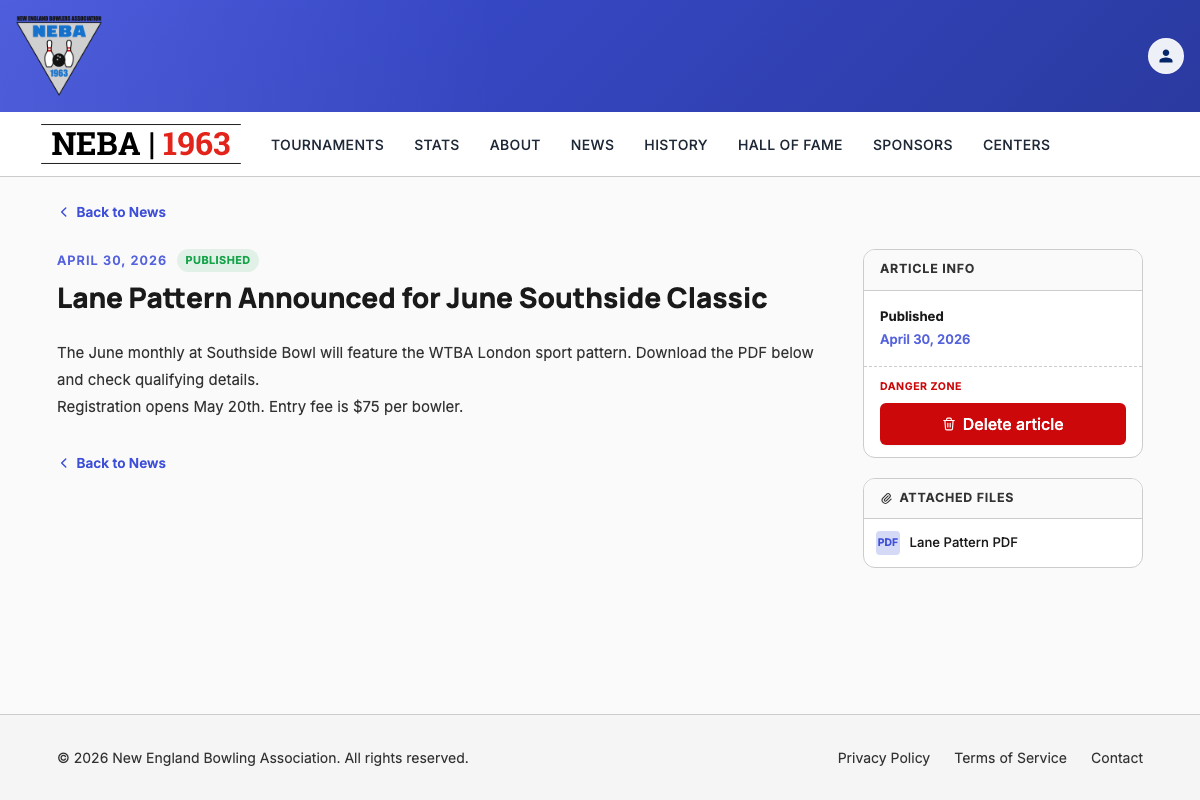
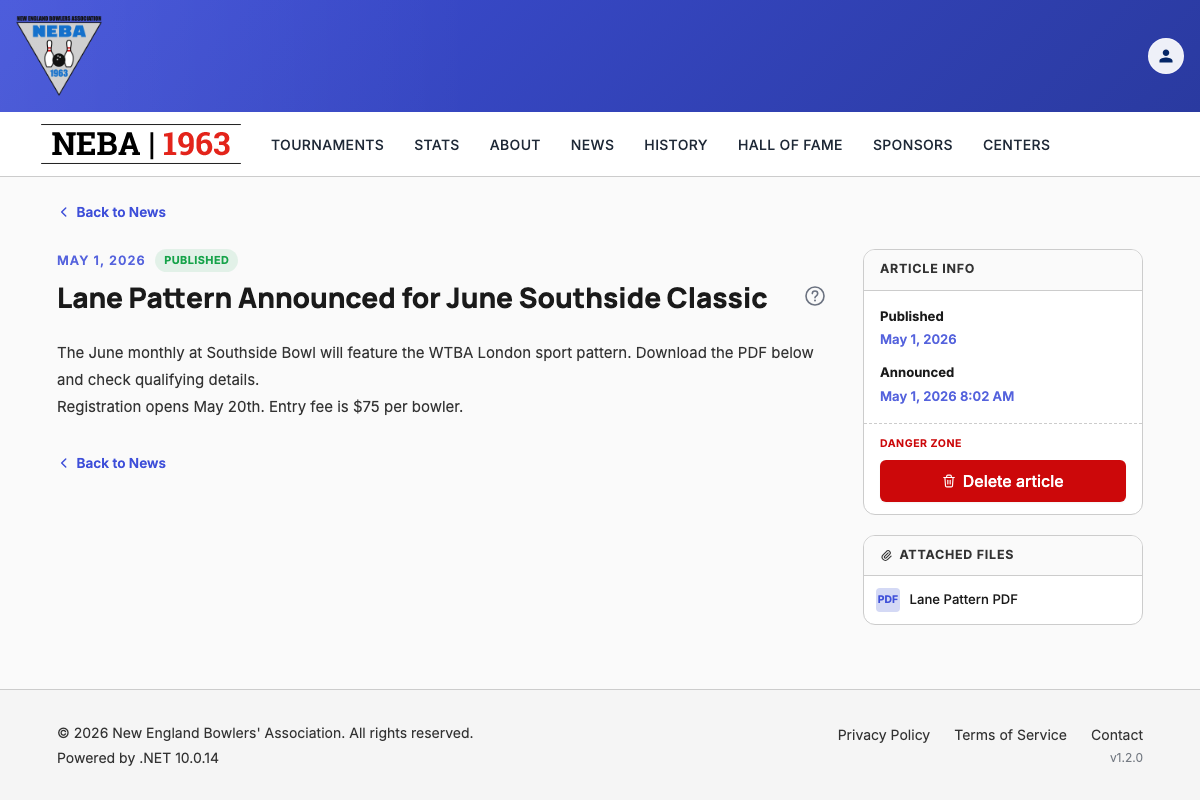
Document the Discord announcement in the article help
edit-article.md gains an Announcements on Discord section covering when
an article posts, what a changed date or a draft does, the Announced row
in the Article Info panel, and what a failed post looks like.
create-article.md points to it. The mock API's June lane pattern article
carries an announced time so the screenshot specs can show it.

diff --git a/tests/e2e/docs-screenshots/edit-article.spec.ts b/tests/e2e/docs-screenshots/edit-article.spec.ts
@@ -9,6 +9,9 @@ import path from 'node:path';
  *
  * Unlike delete, editing has no natural "undo" step, so this script stops at the populated,
  * pre-submit form rather than actually saving changes to the mock article.
+ *
+ * The Article Info panel shots read the mock articles: june-lane-pattern carries an announced
+ * time, points-race-update does not.
  */
 
 const outDir = path.join('docs', 'help', 'images', 'edit-article');
@@ -36,5 +39,21 @@ test.describe('edit-article help screenshots', () => {
     // fullPage so the Tournament/Header Image/Attachments sections (below the initial
     // title/slug/content/status/publish-date fields) are captured, not just the first viewport.
     await page.screenshot({ path: path.join(outDir, 'edit-form.png'), fullPage: true });
+  });
+
+  test('article info panel shows whether the article was announced', async ({ page }) => {
+    await page.goto('/news/june-lane-pattern');
+    await page.waitForSelector('.news-detail-layout');
+
+    const announcedPanel = page.locator('.sidebar-panel').first();
+    await expect(announcedPanel.locator('.sidebar-meta-label', { hasText: 'Announced' })).toBeVisible();
+    await announcedPanel.screenshot({ path: path.join(outDir, 'detail-announced.png') });
+
+    await page.goto('/news/points-race-update');
+    await page.waitForSelector('.news-detail-layout');
+
+    const notAnnouncedPanel = page.locator('.sidebar-panel').first();
+    await expect(notAnnouncedPanel.locator('.sidebar-meta-value--muted')).toHaveText('Not announced');
+    await notAnnouncedPanel.screenshot({ path: path.join(outDir, 'detail-not-announced.png') });
   });
 });

diff --git a/tests/e2e/mock-api/mock-api-server.ts b/tests/e2e/mock-api/mock-api-server.ts
@@ -941,6 +941,7 @@ const MOCK_ARTICLE_JUNE_LANE_PATTERN: object = {
   content: '<p>The June monthly at Southside Bowl will feature the WTBA London sport pattern. Download the PDF below and check qualifying details.</p><p>Registration opens May 20th. Entry fee is $75 per bowler.</p>',
   headerImageUrl: null,
   publishDateUtc: '2026-05-01T12:00:00+00:00',
+  announcedAtUtc: '2026-05-01T12:02:00+00:00',
   tournamentId: null,
   attachments: [
     { displayName: 'Lane Pattern PDF', contentType: 'application/pdf', url: 'https://files.bowlneba.com/news/june-lane-pattern/pattern.pdf', isInline: false, container: 'news', path: 'june-lane-pattern/pattern.pdf', sizeInBytes: 156672 },

diff --git a/docs/help/edit-article.md b/docs/help/edit-article.md
@@ -31,8 +31,8 @@ Once on the edit page, update any of:
 - **Tournament** — if the article is already linked to a tournament, its name is shown as read-only text with a **Change tournament** button; click it to switch to the season/tournament dropdowns. If it's not linked, pick a season and then a tournament within that season, or leave both as-is to keep no tournament link.
 - **Header Image** — the current header image (if any) is shown with a **Remove current image** button. Drag and drop, or click to browse for, a replacement image (JPEG/PNG/etc., up to 5 MB).
 - **Attachments** — existing attachments are listed with **Download**, **Open**, and **Remove** actions. Drag and drop, or click to browse for, additional files (PDF, Word, Excel, or images, up to 25 MB each) to add — up to 10 total. Any image embedded inline in the Content editor also appears here, tagged **Inline**, alongside any files added through this uploader.
-- **Status** — `Draft` (not visible to the public) or `Published`.
-- **Publish Date** — shown and entered in your own local time; it's converted to UTC automatically when the article is saved.
+- **Status** — `Draft` (not visible to the public) or `Published`. A `Published` article is also posted to the NEBA news channel on Discord (see [Announcements on Discord](#announcements-on-discord)).
+- **Publish Date** — shown and entered in your own local time; it's converted to UTC automatically when the article is saved. Moving the date before the article is posted moves the post with it.
 
 ![Edit Article form populated with an existing article's data](images/edit-article/edit-form.png)
 
@@ -49,6 +49,25 @@ If you've made any changes and try to leave the page before saving — via **Can
 - **Success**: an "Article Updated" toast appears and you're taken back to the article's detail page (`/news/{slug}`).
 - **Failure**: the form stays on screen with an "Unable to Save Article" message explaining what went wrong (see Troubleshooting below) — nothing is saved, and you can fix the form and try again without re-entering everything.
 
+## Announcements on Discord
+
+A `Published` article is posted once to the NEBA news channel on Discord. The post has the article's title as a link to the article and its header image, if it has one. It goes out about two minutes after the publish date, so the article is live when readers click the link. If the publish date has already passed when you save, it goes out about two minutes after you save. A `Draft` is never posted.
+
+- If you move the publish date before the post goes out, the post goes out at the new time. The old time is ignored.
+- If you switch the article back to `Draft` before the post goes out, nothing is posted.
+- An article is posted only once. Later edits, or switching it to `Draft` and back to `Published`, do not post it again.
+- Deleting an article before its post goes out cancels the post.
+
+Anyone who holds a news permission (create, edit, or delete) can see the result in the **Article Info** panel on the article's page, under **Published**. It shows the date and time of the post in your own local time.
+
+![Article Info panel showing the date and time an article was announced](images/edit-article/detail-announced.png)
+
+Before the post goes out, and for a draft, it shows "Not announced".
+
+![Article Info panel showing Not announced](images/edit-article/detail-not-announced.png)
+
+If a post fails, it is not retried, because a retry could post the article twice. The panel still shows a time, and the team gets an alert so they can post the article by hand.
+
 ## Troubleshooting
 
 | What you see | What it means |
@@ -59,6 +78,8 @@ If you've made any changes and try to leave the page before saving — via **Can
 | A red error status next to a file in the Header Image or Attachments list (e.g. "File exceeds the maximum allowed size of 5 MB." / "Upload failed.") | That individual file failed to upload — the rest of the form is unaffected. Remove it and try again with a smaller file or a different file. |
 | "TournamentId must be a 26-character ULID." or "The specified tournament does not exist." | The linked tournament no longer exists or wasn't recognized. Use **Change tournament** to re-pick the season and tournament from the dropdowns and try again. |
 | "Article with slug not found." (as the save error, not the page load error) | The article was deleted by someone else after you opened the edit page but before you saved. Go back to the News list — there's nothing left to save. |
+| The Article Info panel says "Not announced" for a `Published` article | The post has not gone out yet. It goes out about two minutes after the publish date (or after you saved, if the date had passed). If it still says "Not announced" well after that, check that the article is `Published` and that its publish date is correct. |
+| The Article Info panel shows a time, but the article is not in Discord | The post failed. It is not retried, and the team gets an alert. Ask the team to post the article by hand. |
 | Any other "Unable to Save Article" message | The server rejected the request; the message describes the specific problem. Your changes were not saved — correct the issue and submit again. |
 
 ## Related

diff --git a/docs/help/create-article.md b/docs/help/create-article.md
@@ -20,7 +20,7 @@ You need the `News.CreateArticle` permission (granted to the `Webmaster` and `Ad
    - **Tournament** — optional. Pick a season, then a tournament within that season, to link the article to it, or leave both as-is to publish with no tournament link. If you opened this page from a tournament's page (a "tournamentId" link), the tournament is already chosen and shown as read-only text instead of the dropdowns.
    - **Header Image** — optional. Drag and drop, or click to browse for, a single image (JPEG/PNG/etc., up to 5 MB) to use as the article's header image.
    - **Attachments** — optional. Drag and drop, or click to browse for, up to 10 files (PDF, Word, Excel, or images, up to 25 MB each) to attach to the article. Any image embedded inline in the Content editor also appears here, tagged **Inline**, alongside any files you add through this uploader.
-   - **Status** — `Draft` (not visible to the public) or `Published`.
+   - **Status** — `Draft` (not visible to the public) or `Published`. A `Published` article is also posted to the NEBA news channel on Discord, about two minutes after its publish date. A `Draft` is not posted.
    - **Publish Date** — shown and entered in your own local time; it's converted to UTC automatically when the article is saved.
 
    ![Blank Create Article form](images/create-article/create-form.png)
@@ -35,7 +35,7 @@ You need the `News.CreateArticle` permission (granted to the `Webmaster` and `Ad
 
 ## What happens after you confirm
 
-- **Success**: an "Article Created" toast appears and you're taken straight to the new article's detail page (`/news/{slug}`).
+- **Success**: an "Article Created" toast appears and you're taken straight to the new article's detail page (`/news/{slug}`). If the article is `Published`, it is posted to Discord about two minutes after its publish date. See [Edit an article](edit-article.md#announcements-on-discord) for what you can see and what happens if you change the date.
 - **Failure**: the form stays on screen with an "Unable to Create Article" message explaining what went wrong (see Troubleshooting below) — nothing is saved, and you can fix the form and try again without re-entering everything.
 
 ## Troubleshooting
